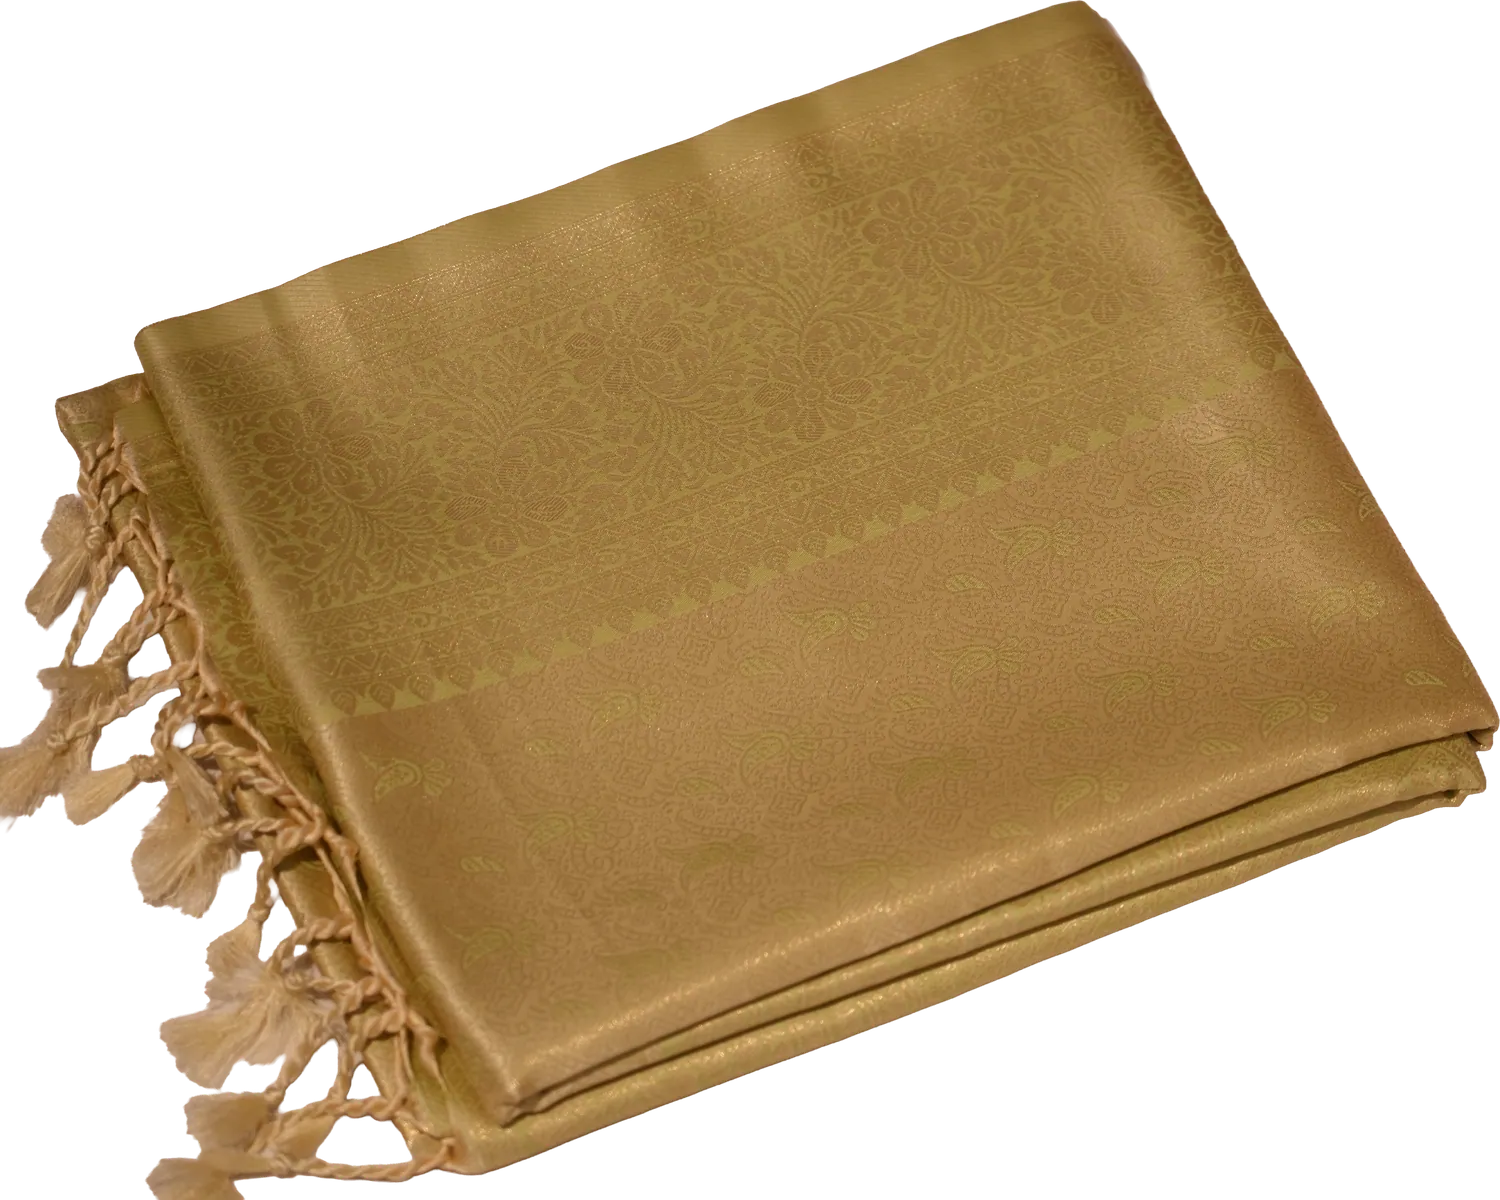
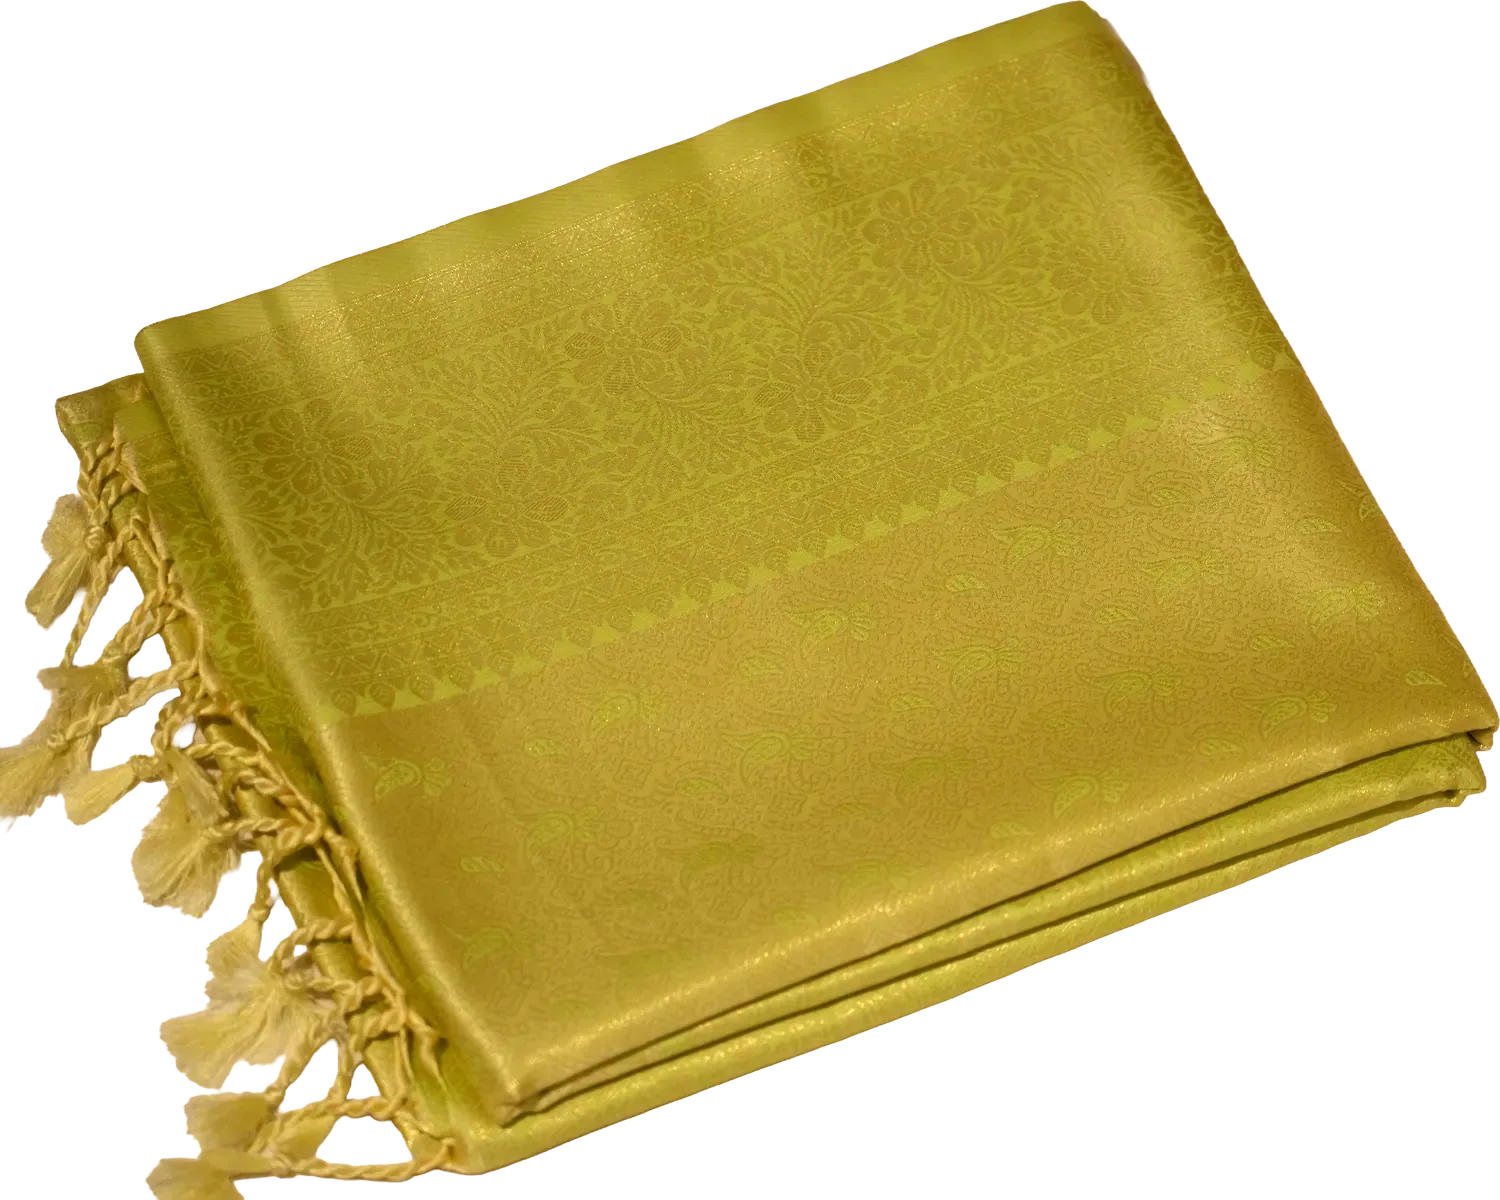
Saree page photos on the paisley backdrop; brighter Pista Green photos

diff --git a/src/components/product/ProductGallery.tsx b/src/components/product/ProductGallery.tsx
@@ -1,6 +1,7 @@
 import React, { useState } from 'react';
 import { Maximize2, X, ChevronLeft, ChevronRight } from 'lucide-react';
 import { useBackToClose } from '../../lib/history';
+import { SareeOnPaisley } from './SareeOnPaisley';
 
 interface ProductGalleryProps {
   images: string[];
@@ -32,12 +33,7 @@ export const ProductGallery: React.FC<ProductGalleryProps> = ({ images, productN
           className="group block w-full aspect-[4/5] cursor-zoom-in"
           aria-label={`Open ${productName} photo ${current + 1} full screen`}
         >
-          <img
-            key={displayImages[current]}
-            src={displayImages[current]}
-            alt={`${productName} — photo ${current + 1}`}
-            className="w-full h-full object-contain"
-          />
+          <SareeOnPaisley key={displayImages[current]} src={displayImages[current]} alt={`${productName} — photo ${current + 1}`} />
           <span className="absolute top-3 right-3 bg-black/55 text-white p-2 rounded-full opacity-80 group-hover:opacity-100">
             <Maximize2 className="w-4 h-4" />
           </span>
